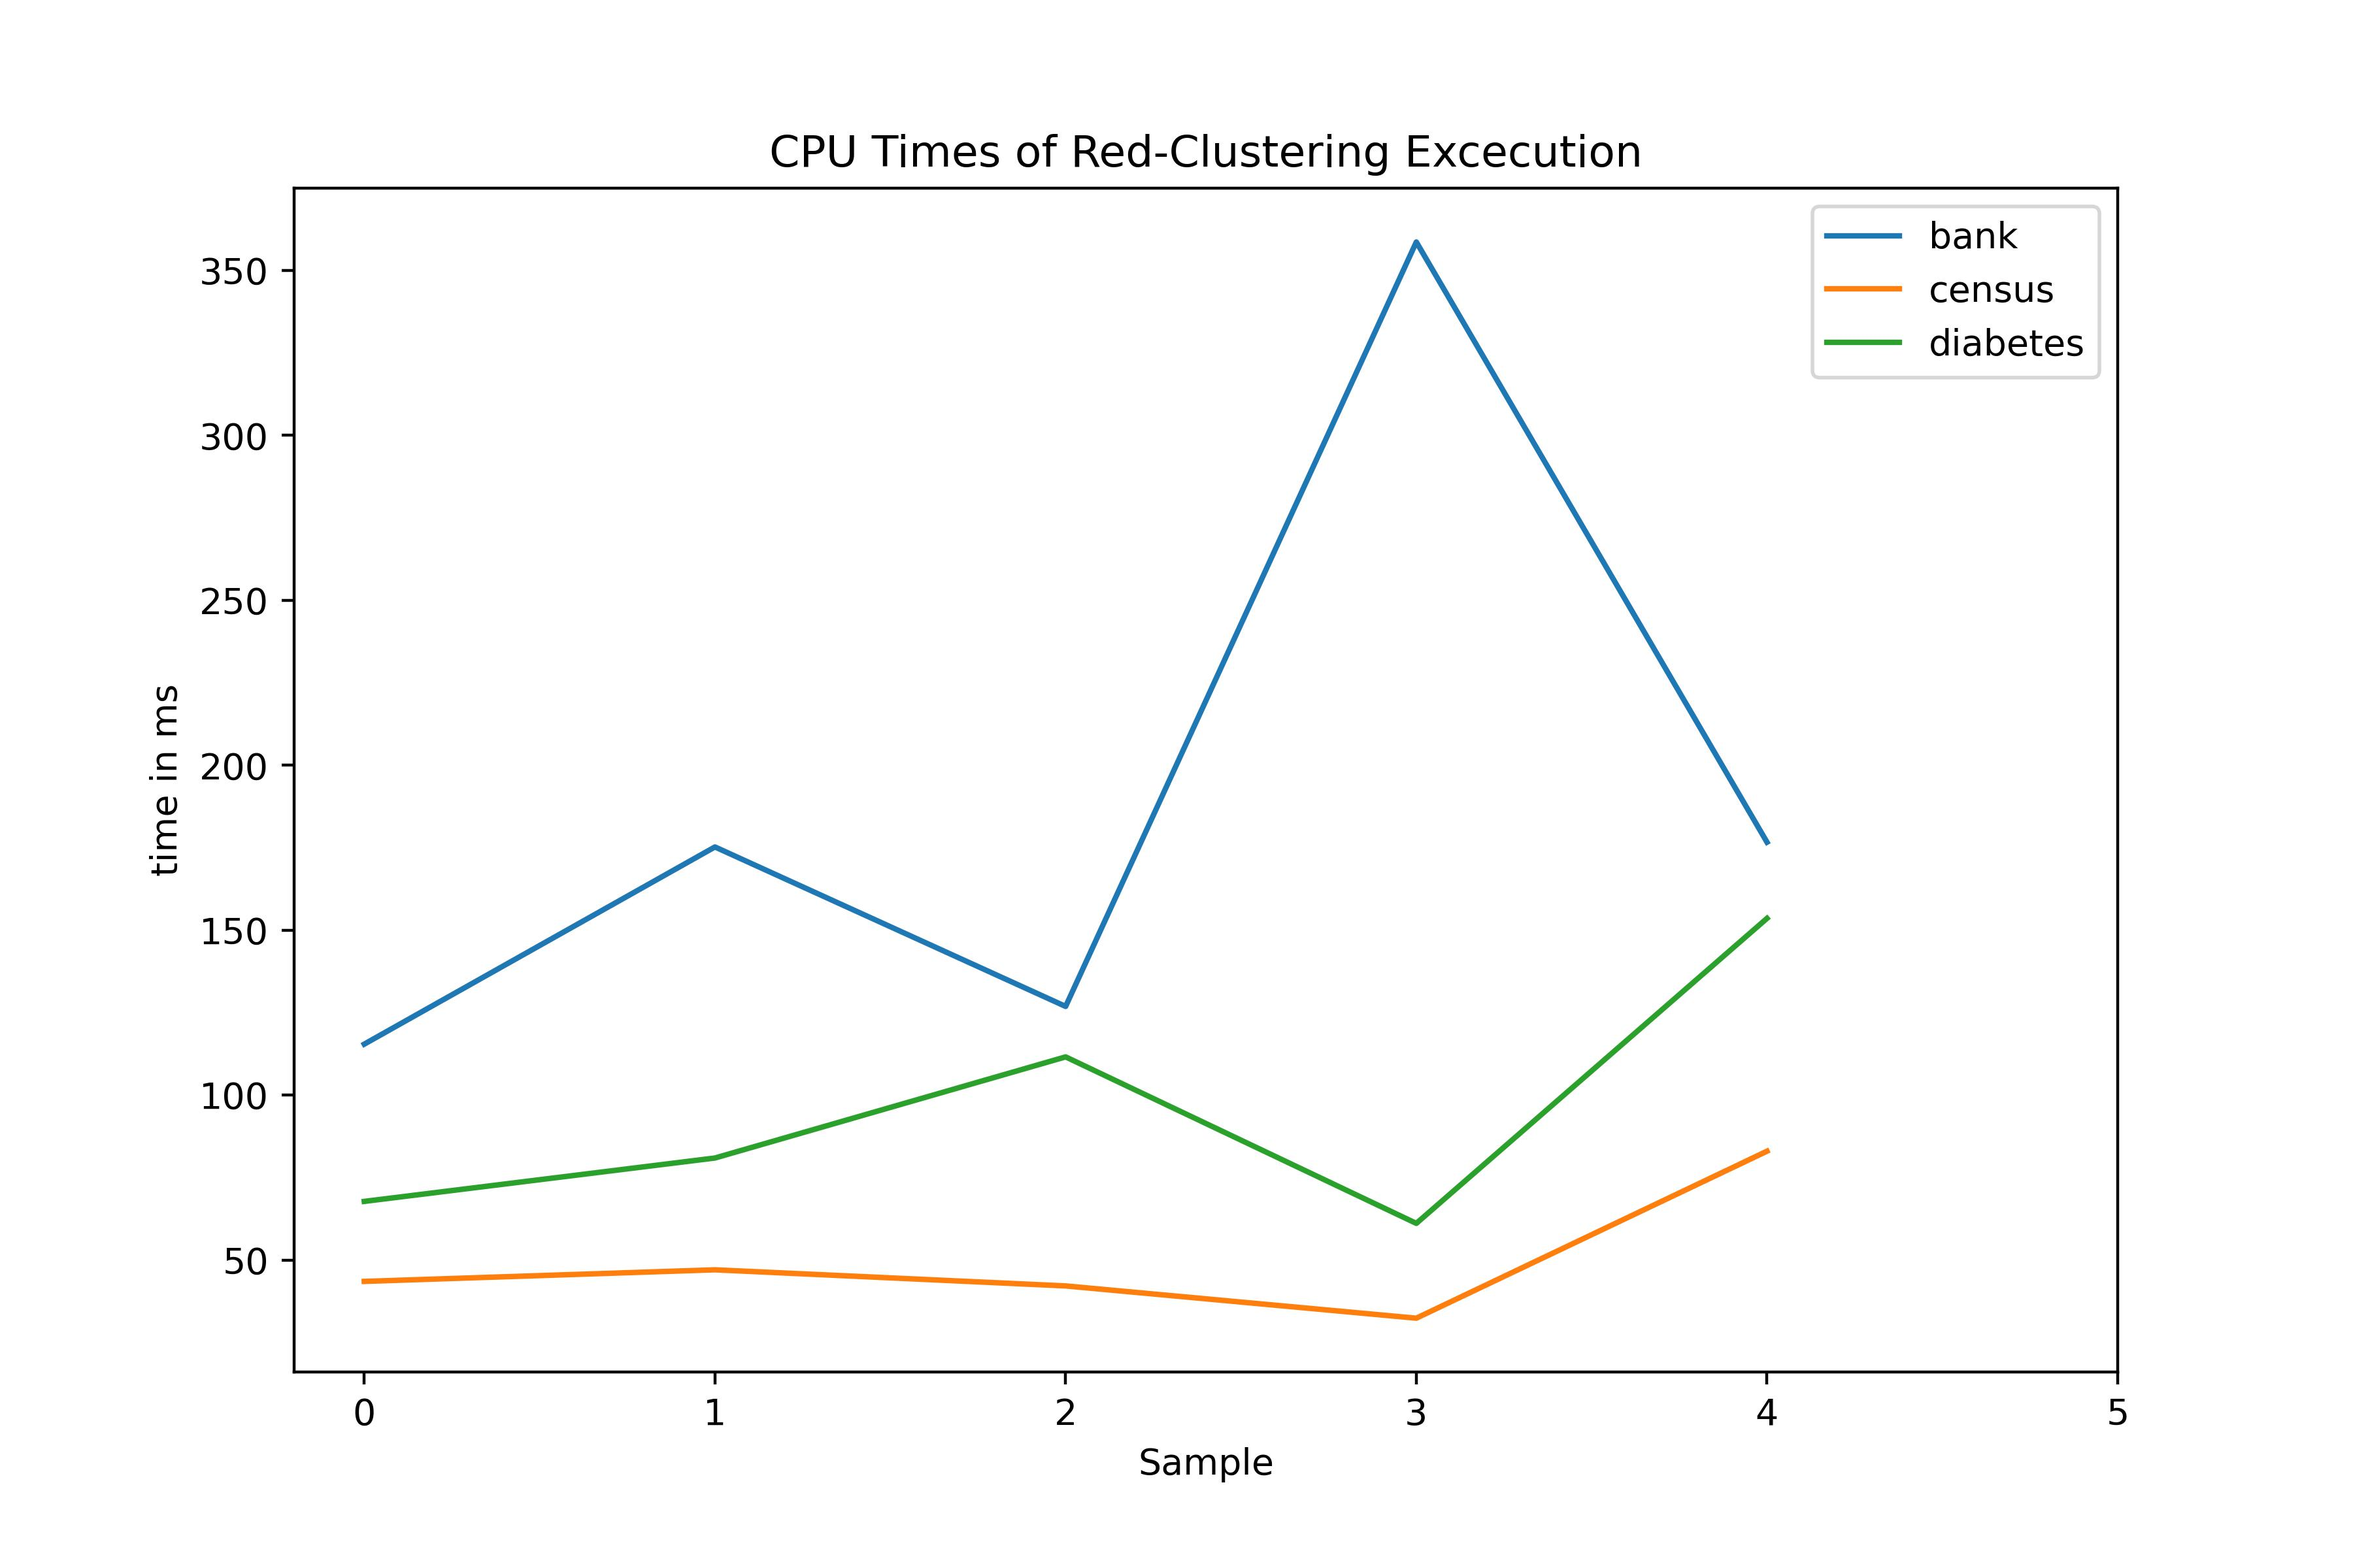
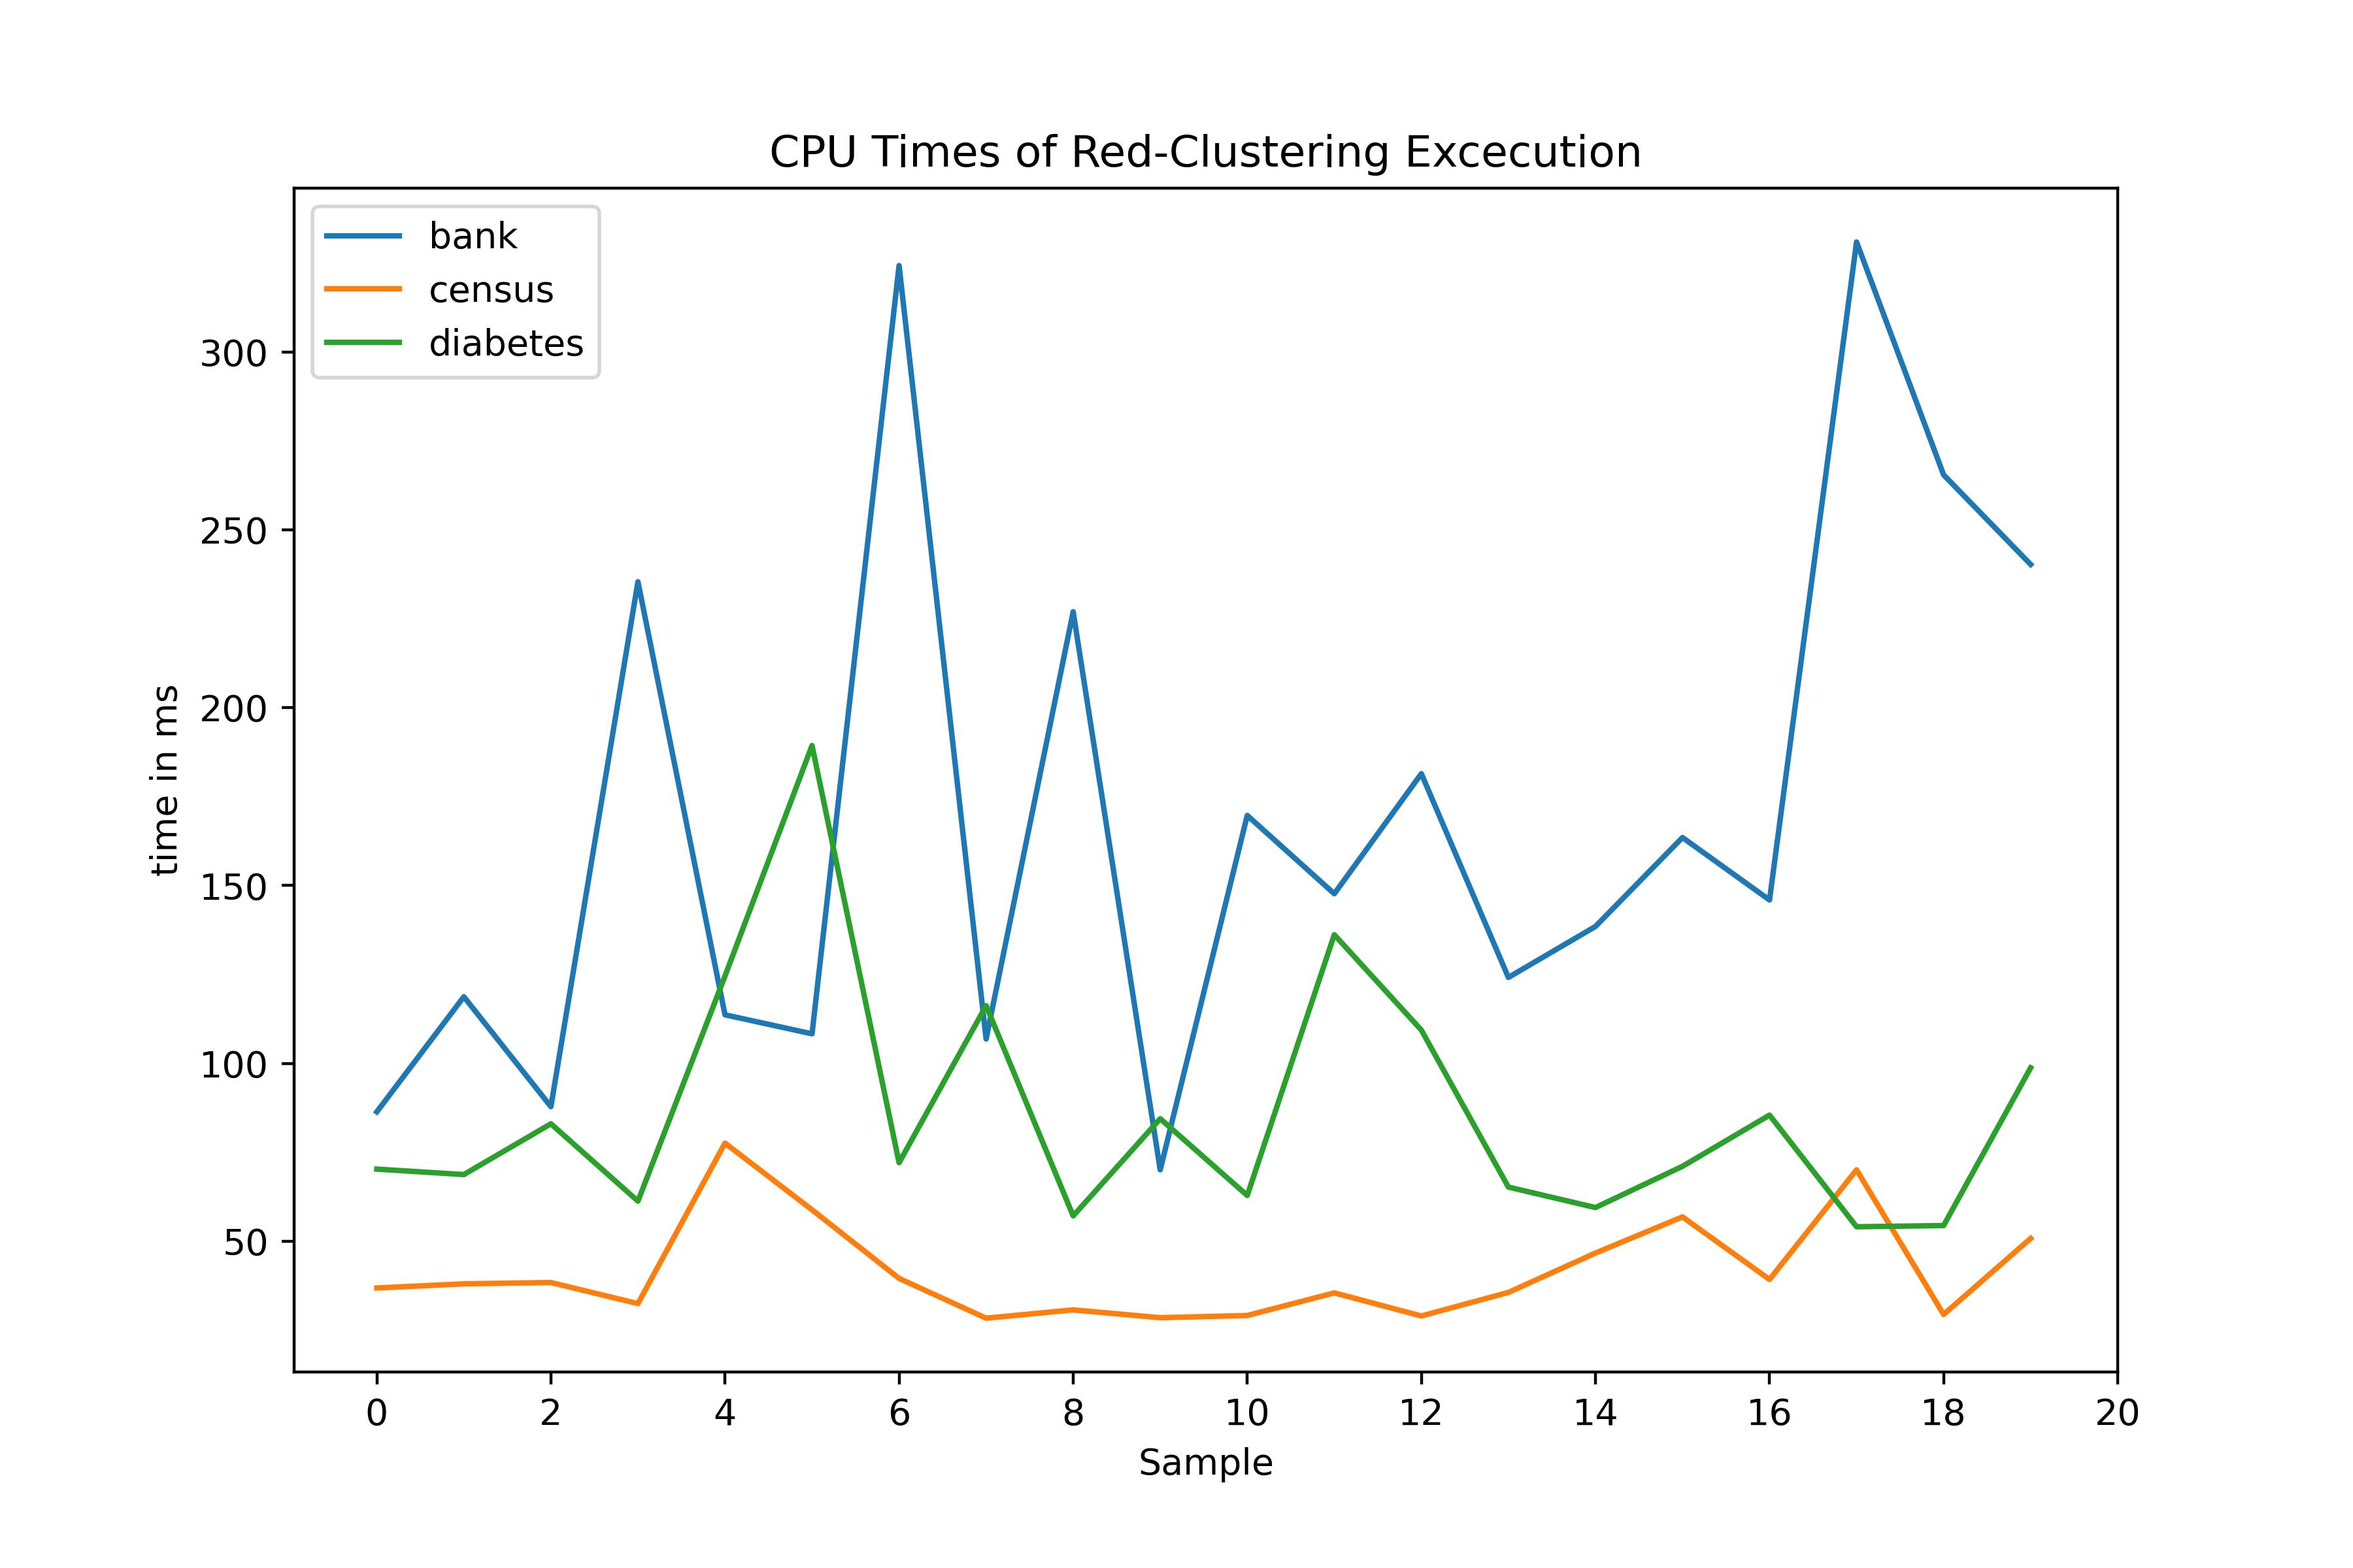
new testdiagrams with full Data
Die neuen Bilder in das Dokument eingepflegt, welche jetzt mit den vollen Daten erzeugt wurden

diff --git a/Latex/experimentsPipeline.tex b/Latex/experimentsPipeline.tex
@@ -16,7 +16,7 @@
         Um die Algorithmen zu vergleichen betrachten wir ihre Güte auf den Test-Daten mit verschiedener Anzahl an Clustern
         \begin{figure}
             \centering
-            \includegraphics[height=\textheight-29pt]{fig/OutputPictures/Collective Clued Vertical (Cluster-15).jpg}
+            \includegraphics[height=\textheight-29pt]{fig/OutputPictures/Collective Clued(Cluster-30).jpg}
             \caption{Zusammengefasste kosten der Cluster bis zu 15 Cluster}
             \label{fig:CluedQuality15}
         \end{figure}
